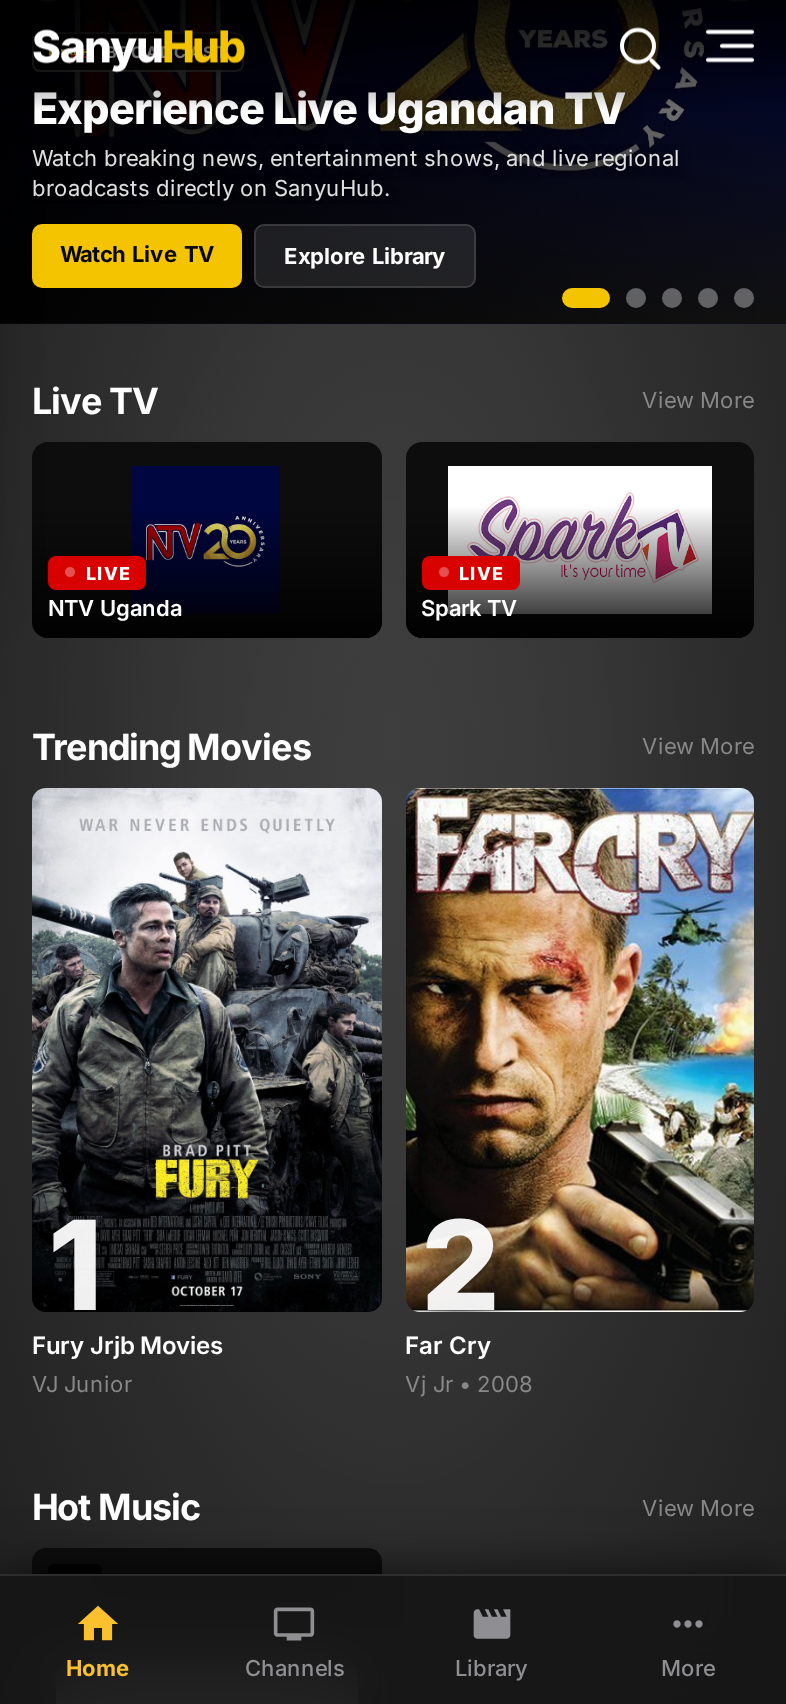
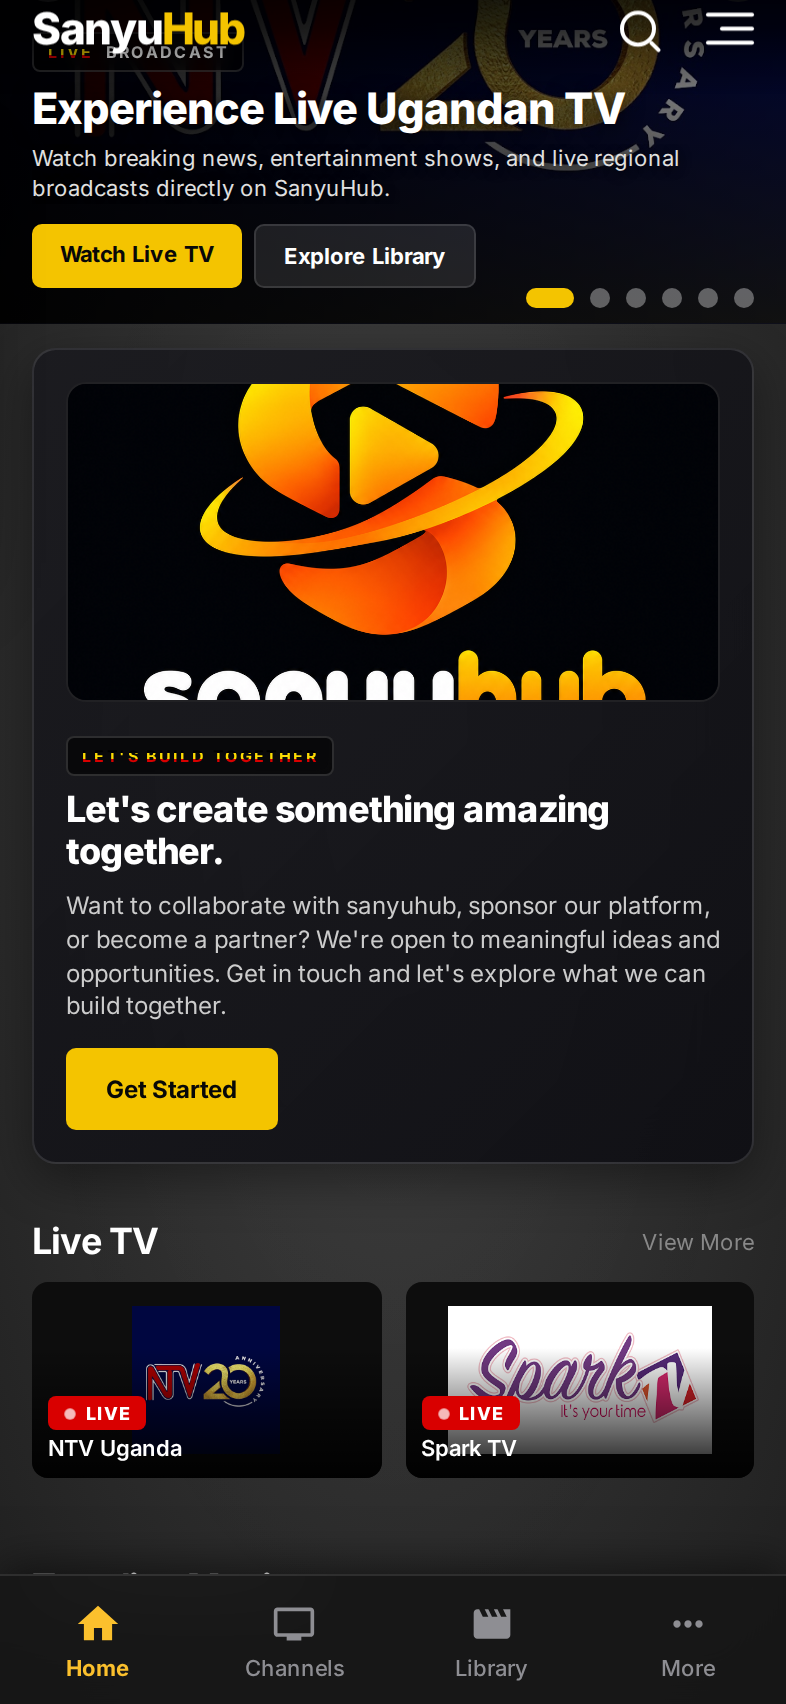
Enhance homepage hero with collaboration invitation and image

diff --git a/css/style.css b/css/style.css
@@ -326,6 +326,136 @@ transform:translateY(0)
   margin-bottom: 24px;
 }
 
+/* HERO COLLABORATION BANNER */
+.hero-collaboration-banner {
+  margin: 16px auto 0;
+  padding: 0 5%;
+  width: 100%;
+}
+
+.collaboration-banner-inner {
+  display: flex;
+  align-items: center;
+  gap: 24px;
+  background: linear-gradient(135deg, rgba(25, 25, 30, 0.85) 0%, rgba(15, 15, 20, 0.95) 100%);
+  border: 1px solid rgba(255, 255, 255, 0.12);
+  border-radius: 12px;
+  padding: 20px 24px;
+  backdrop-filter: blur(12px);
+  -webkit-backdrop-filter: blur(12px);
+  box-shadow: 0 8px 24px rgba(0, 0, 0, 0.4);
+  transition: border-color 0.3s ease, transform 0.3s ease;
+}
+
+.collaboration-banner-inner:hover {
+  border-color: rgba(244, 196, 0, 0.4);
+}
+
+.collaboration-image-container {
+  flex-shrink: 0;
+  width: 180px;
+  max-width: 30%;
+  aspect-ratio: 1 / 1;
+  border-radius: 10px;
+  overflow: hidden;
+  background: #0f0f12;
+  border: 1px solid rgba(255, 255, 255, 0.08);
+}
+
+.collaboration-image {
+  width: 100%;
+  height: 100%;
+  object-fit: cover;
+  display: block;
+  transition: transform 0.3s ease;
+}
+
+.collaboration-banner-inner:hover .collaboration-image {
+  transform: scale(1.03);
+}
+
+.collaboration-text-content {
+  flex: 1;
+  min-width: 0;
+}
+
+.collaboration-heading {
+  font-size: clamp(18px, 2.5vw, 28px);
+  line-height: 1.2;
+  font-weight: 800;
+  color: #ffffff;
+  margin-bottom: 8px;
+  letter-spacing: -0.5px;
+}
+
+.collaboration-description {
+  color: #cccccc;
+  font-size: clamp(12px, 1.2vw, 14px);
+  line-height: 1.5;
+  margin-bottom: 16px;
+  max-width: 680px;
+}
+
+.collaboration-actions {
+  display: flex;
+  align-items: center;
+  gap: 12px;
+}
+
+.btn-get-started {
+  display: inline-flex;
+  align-items: center;
+  justify-content: center;
+  text-decoration: none;
+  transition: transform 0.2s ease, background-color 0.2s ease, box-shadow 0.2s ease;
+}
+
+.btn-get-started:hover {
+  background: #ffdb33;
+  transform: translateY(-2px);
+  box-shadow: 0 4px 14px rgba(244, 196, 0, 0.3);
+}
+
+.btn-get-started:active {
+  transform: translateY(0);
+}
+
+.btn-get-started:focus-visible {
+  outline: 2px solid #ffffff;
+  outline-offset: 3px;
+}
+
+@media (max-width: 768px) {
+  .hero-collaboration-banner {
+    padding: 0 16px;
+    margin-top: 12px;
+  }
+
+  .collaboration-banner-inner {
+    flex-direction: column;
+    align-items: flex-start;
+    padding: 16px;
+    gap: 14px;
+  }
+
+  .collaboration-image-container {
+    width: 100%;
+    max-width: 100%;
+    height: 160px;
+    aspect-ratio: auto;
+  }
+
+  .collaboration-heading {
+    font-size: 18px;
+  }
+
+  .collaboration-description {
+    font-size: 12px;
+    line-height: 1.4;
+    margin-bottom: 12px;
+  }
+}
+
 .hero-carousel {
   position: relative;
   width: 100%;

diff --git a/index.html b/index.html
@@ -244,6 +244,22 @@ Live TV
         </div>
       </div>
 
+      <!-- Slide 6: Collaboration & Partnerships -->
+      <div class="carousel-slide" data-slide="5">
+        <div class="slide-bg" style="background-image: linear-gradient(90deg, rgba(0,0,0,0.92) 0%, rgba(0,0,0,0.65) 45%, rgba(0,0,0,0.3) 100%), linear-gradient(0deg, #181818 0%, transparent 50%), url('/images/hero-collaboration.png');"></div>
+        <div class="hero-content hero-content-collaboration">
+          <div class="hero-badge">
+            <span class="ugandan-text">LET'S BUILD TOGETHER</span>
+          </div>
+          <h1>Let's create something amazing together.</h1>
+          <p class="hero-description">Want to collaborate with sanyuhub, sponsor our platform, or become a partner? We're open to meaningful ideas and opportunities. Get in touch and let's explore what we can build together.</p>
+          <div class="hero-buttons">
+            <a href="https://sanyuhub.vercel.app/contact" class="btn btn-primary btn-get-started" target="_blank" rel="noopener noreferrer">Get Started</a>
+            <a href="https://sanyuhub.vercel.app/contact" class="btn btn-secondary" target="_blank" rel="noopener noreferrer">Contact Us</a>
+          </div>
+        </div>
+      </div>
+
     </div>
 
     <!-- Carousel Nav Buttons -->
@@ -257,6 +273,30 @@ Live TV
       <span class="indicator" data-slide="2"></span>
       <span class="indicator" data-slide="3"></span>
       <span class="indicator" data-slide="4"></span>
+      <span class="indicator" data-slide="5"></span>
+    </div>
+  </div>
+
+  <!-- Hero Collaboration Invitation Banner -->
+  <div class="hero-collaboration-banner" id="heroCollaborationBanner">
+    <div class="collaboration-banner-inner">
+      <div class="collaboration-image-container">
+        <img src="/images/hero-collaboration.png" alt="SanyuHub Collaboration, Sponsorship & Partnership" class="collaboration-image" loading="lazy">
+      </div>
+      <div class="collaboration-text-content">
+        <div class="hero-badge">
+          <span class="ugandan-text">LET'S BUILD TOGETHER</span>
+        </div>
+        <h2 class="collaboration-heading">Let's create something amazing together.</h2>
+        <p class="collaboration-description">
+          Want to collaborate with sanyuhub, sponsor our platform, or become a partner? We're open to meaningful ideas and opportunities. Get in touch and let's explore what we can build together.
+        </p>
+        <div class="collaboration-actions">
+          <a href="https://sanyuhub.vercel.app/contact" class="btn btn-primary btn-get-started" target="_blank" rel="noopener noreferrer">
+            Get Started
+          </a>
+        </div>
+      </div>
     </div>
   </div>
 </section>

diff --git a/verify_hero_spec.py b/verify_hero_spec.py
@@ -1,0 +1,50 @@
+from playwright.sync_api import sync_playwright
+
+def verify_hero():
+    with sync_playwright() as p:
+        browser = p.chromium.launch(headless=True)
+
+        # 1. Desktop viewport
+        page = browser.new_page(viewport={"width": 1280, "height": 800})
+        page.goto("http://localhost:3000/index.html")
+        page.wait_for_timeout(1000)
+
+        # Check all slides exist
+        slides = page.query_selector_all(".carousel-slide")
+        print(f"Total carousel slides: {len(slides)}")
+        assert len(slides) == 6, f"Expected 6 slides, got {len(slides)}"
+
+        # Check collaboration banner elements
+        banner = page.query_selector(".hero-collaboration-banner")
+        assert banner is not None, "Hero collaboration banner not found!"
+
+        badge = page.query_selector(".collaboration-text-content .ugandan-text")
+        assert badge and badge.inner_text().strip() == "LET'S BUILD TOGETHER", f"Badge mismatch: {badge.inner_text() if badge else None}"
+
+        heading = page.query_selector(".collaboration-heading")
+        assert heading and heading.inner_text().strip() == "Let's create something amazing together.", f"Heading mismatch: {heading.inner_text() if heading else None}"
+
+        desc = page.query_selector(".collaboration-description")
+        assert desc and "Want to collaborate with sanyuhub, sponsor our platform, or become a partner?" in desc.inner_text(), f"Desc mismatch: {desc.inner_text() if desc else None}"
+
+        btn = page.query_selector(".collaboration-actions .btn-get-started")
+        assert btn and btn.get_attribute("href") == "https://sanyuhub.vercel.app/contact", f"Button href mismatch: {btn.get_attribute('href') if btn else None}"
+
+        img = page.query_selector(".collaboration-image")
+        assert img and "/images/hero-collaboration.png" in img.get_attribute("src"), "Image src mismatch"
+
+        page.screenshot(path="verification_desktop.png", full_page=False)
+        print("Desktop verification passed!")
+
+        # 2. Mobile viewport (iPhone 12 / Android mobile)
+        mobile_page = browser.new_page(viewport={"width": 390, "height": 844})
+        mobile_page.goto("http://localhost:3000/index.html")
+        mobile_page.wait_for_timeout(1000)
+
+        mobile_page.screenshot(path="verification_mobile.png", full_page=False)
+        print("Mobile verification passed!")
+
+        browser.close()
+
+if __name__ == "__main__":
+    verify_hero()
